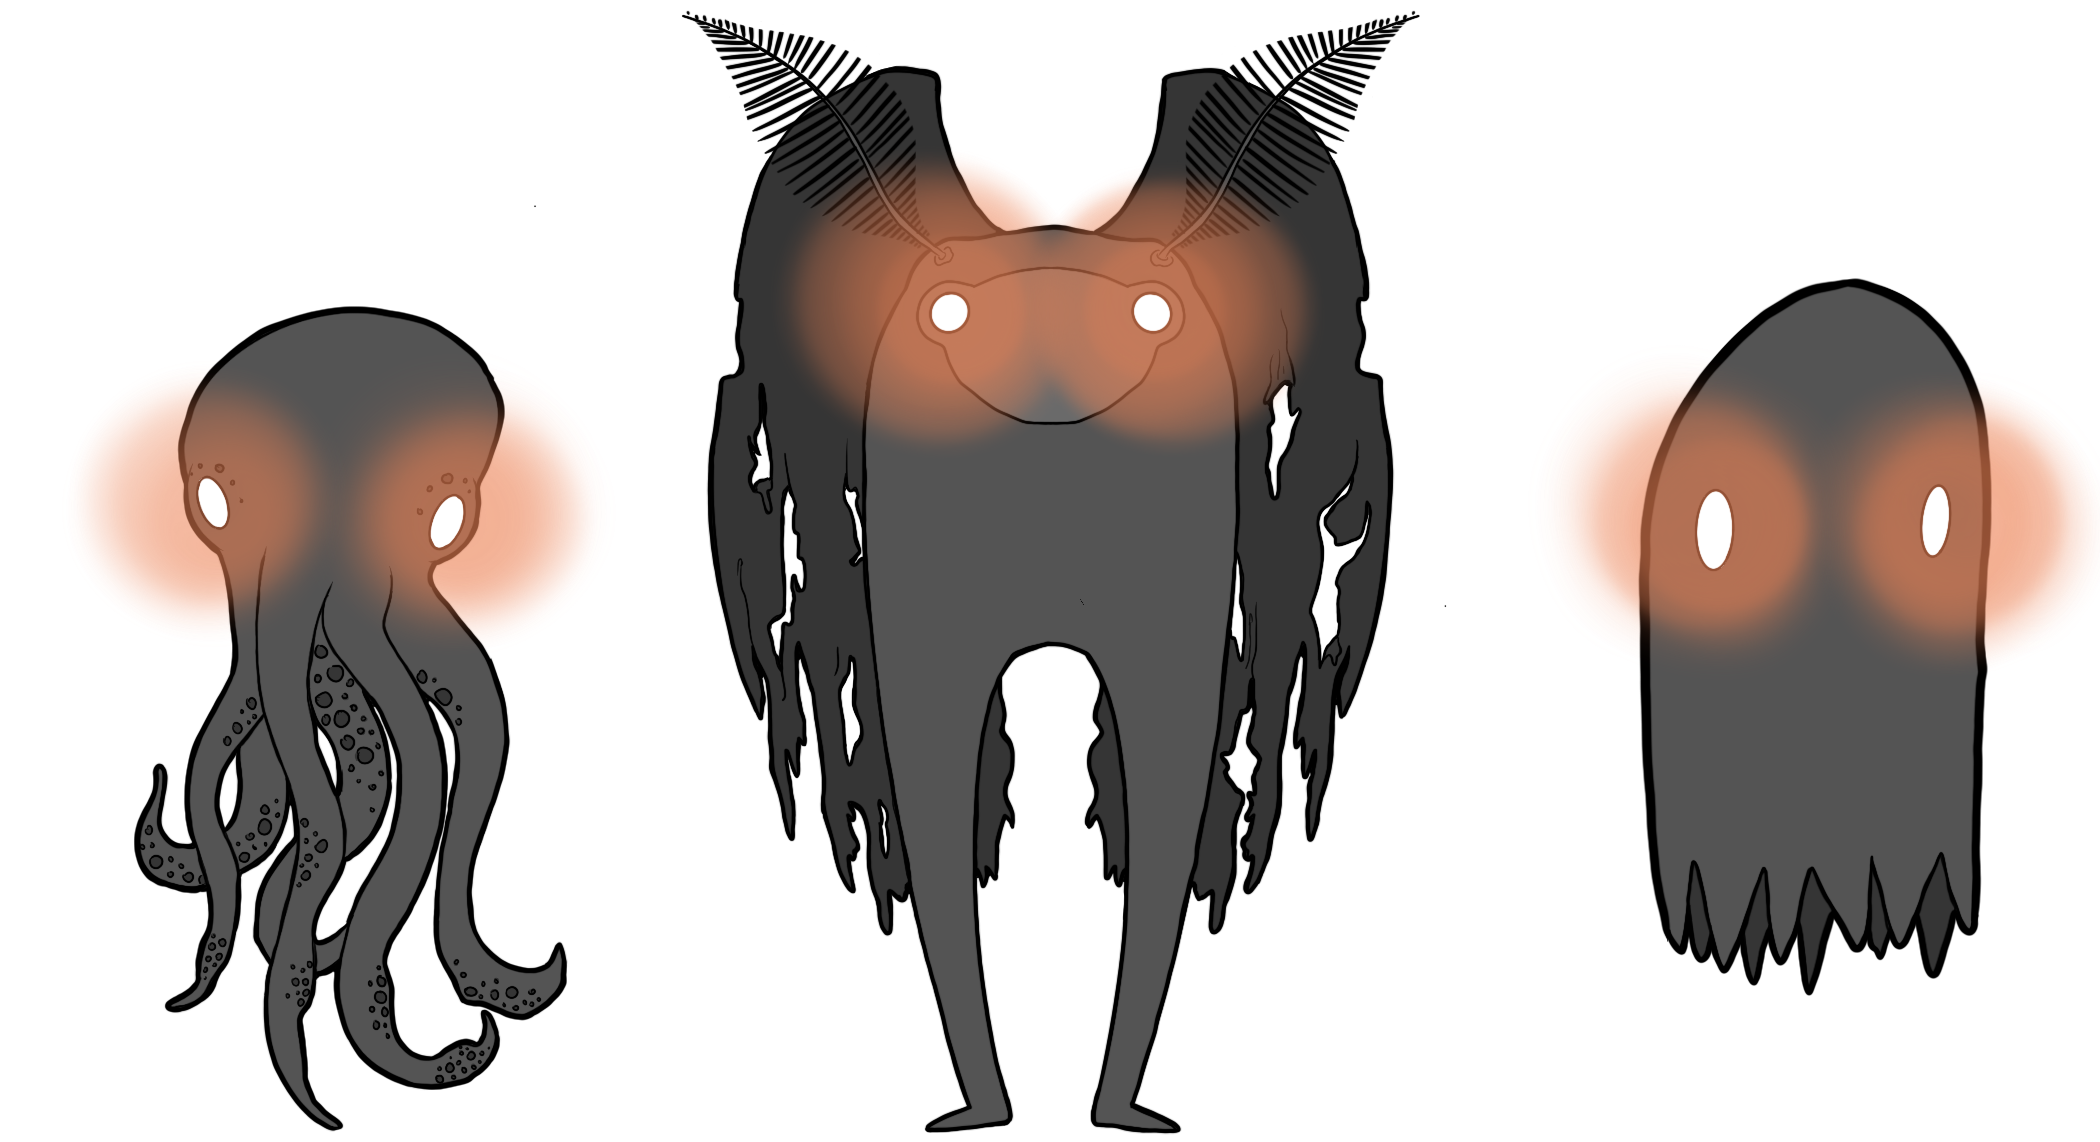
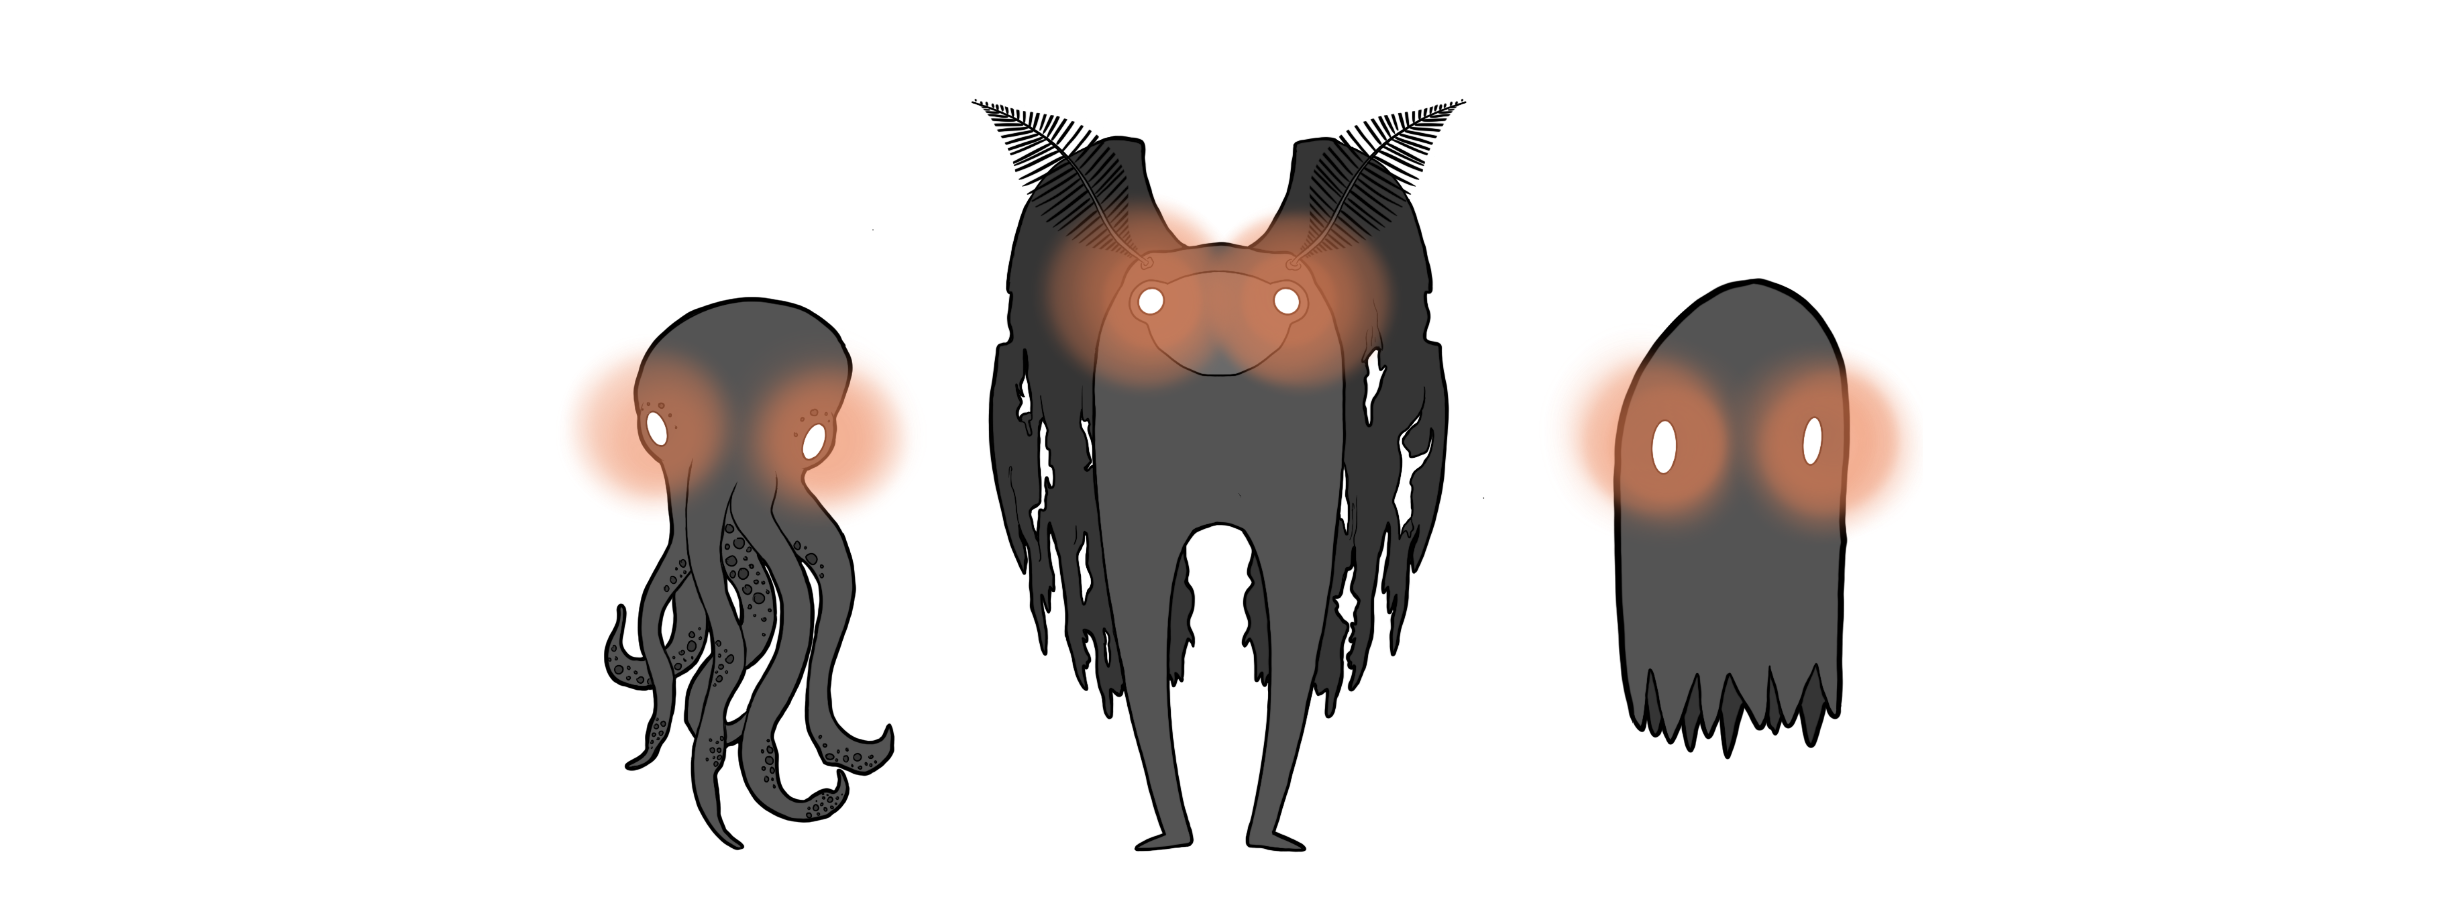
navigation bar function and position, intro/header effect, hamburger menu function

diff --git a/src/components/header/header.scss b/src/components/header/header.scss
@@ -1,7 +1,48 @@
 header.header   {
-    z-index:1;
+    position:relative;
+    // height:50vh;
+    top:20vh;
 }
 
 img.trees {
     width: 100vw;
 }
+
+div.hamburger {
+    position:fixed;
+    z-index:20;
+    top:10px;
+    right:10px;
+    width: 32px;
+    height: 25px;
+    display: flex;
+    flex-direction: column;
+    justify-content: space-between;
+    cursor: pointer;
+
+    span {
+    width: 100%;
+    height: 2px;
+    background-color: var(--tan);
+    border-radius: 2px;
+    transform-origin: left;
+    transition: all 0.5s ease;
+    }
+
+    &.active {
+    span {
+        &:first-child {
+        background-color: var(--red);
+        transform: rotate(45deg);
+        }
+        &:nth-child(2) {
+        display: none;
+        }
+        &:last-child {
+        background-color: var(--red);
+        transform: rotate(-45deg);
+        }
+    }
+    }
+}
+

diff --git a/src/components/header/Header.tsx b/src/components/header/Header.tsx
@@ -1,10 +1,19 @@
 import './header.scss';
 import Trees from '../../images/trees.png'
+import Navigation from './nav/Navigation';
 
-export default function Header() {
+export default function Header(props: any) {
+    const { navOpen, setNavOpen } = props;
+
     return (
         <header className='header'>
-            <img src={Trees} className='trees' alt='a dark blue treeline'/>
+        <img src={Trees} className='trees' alt='a dark blue treeline'/>
+            <div onClick={() => setNavOpen(!navOpen)} className={`hamburger ${navOpen ? 'active' : ''}`}>
+                <span className='line1'></span>
+                <span className='line2'></span>
+                <span className='line3'></span>
+            </div>
+        <Navigation navOpen={navOpen}/>
         </header>
     )
 }

diff --git a/src/App.tsx b/src/App.tsx
@@ -1,16 +1,21 @@
-import React from 'react';
+import React, {Fragment, useState} from 'react';
 import Intro from './components/intro/Intro';
 import Header from './components/header/Header';
 import About from './components/about/About';
 import './App.scss';
 
 function App() {
+  const [navOpen, setNavOpen] = useState<Boolean>(false);
   return (
-    <body>
+    // react fragment allows us to group our sections under one parent (as per React) w/o creating a new div
+    // (good practice to limit extraneous divs)
+    <Fragment>
       <Intro />
-      <Header />
-      <About />
-    </body>
+      <Header navOpen={navOpen} setNavOpen={setNavOpen} />
+      <main>
+        <About />
+      </main>
+    </Fragment>
   );
 }
 

diff --git a/src/components/intro/Intro.tsx b/src/components/intro/Intro.tsx
@@ -1,10 +1,11 @@
 import './intro.scss';
-import Creatrues from '../../images/creature.png'
+import Creatures from '../../images/creature.png'
 
 export default function Intro() {
     return  (
-        <div className='intro'>
-            <img src={Creatrues} className='creatures' alt='a drawing of an alien, mothman, and a ghost'/>
+        <div className='intro-block'>
+            <img src={Creatures} className='creatures' alt='an alien, mothman, and a ghost'/>
+            <h1 className='cryptid'>CRYPT-ID</h1>
         </div>
     )
 }

diff --git a/src/components/header/nav/navigation.scss b/src/components/header/nav/navigation.scss
@@ -1,0 +1,32 @@
+nav.Nav {
+    z-index:19;
+    transition: all 1s ease;
+    position: fixed;
+    height: 100vh;
+    width: 150px;
+    background-color: var(--orange);
+    top:0px;
+    right:0px;
+}
+
+nav.Nav.hidden  {
+    right:-150px;
+}
+
+ul.nav-list  {
+    display: flex;
+    flex-direction: column;
+    justify-content: space-evenly;
+    margin:0px;
+    padding:0px;
+}
+
+li {
+    list-style-type: none;
+    font-family: var(--body-font);
+}
+
+li a {
+    text-decoration: none;
+    color: var(--medium-grey);
+}

diff --git a/src/components/intro/intro.scss b/src/components/intro/intro.scss
@@ -1,12 +1,22 @@
-div.intro   {
+div.intro-block   {
     height: 50vh;
+    position:fixed;
+    display:flex;
+    flex-direction: column;
+    align-items: center;
+    justify-content: center;
+    z-index:-10;
+    top:40px;
+}
+
+h1.cryptid    {
+    font-family: var(--special-font);
+    font-size: 40px;
 }
 
 img.creatures {
-    position:fixed;
-    width: 800px;
+    width: 100%;
     top:8vh;
-    z-index:0;
-    left:15vw;
-    right:15vw;
+    // left:15vw;
+    // right:15vw;
 }

diff --git a/src/components/header/nav/Navigation.tsx b/src/components/header/nav/Navigation.tsx
@@ -1,0 +1,16 @@
+import './navigation.scss';
+
+export default function Navigation(props:any)   {
+    const { navOpen } = props;
+
+    return  (
+        <nav className={`Nav ${navOpen ? '' : 'hidden'}`}>
+            <ul className='nav-list'>
+                {/* TODO: list functionality */}
+                <li><a href='#'>Log In</a></li>
+                <li><a href='#'>Blog</a></li>
+                <li><a href='#'>Unknown</a></li>
+            </ul>
+        </nav>
+    )
+}

diff --git a/src/App.scss b/src/App.scss
@@ -3,8 +3,14 @@ body    {
     display: flex;
     flex-direction: column;
     align-items: center;
-    justify-content: space-between;
+}
 
+main    {
+    background-color: var(--blue);
+    position: relative;
+    top:16vh;
+    z-index:1;
+    
     >   *{
         height:100vh;
     }

diff --git a/src/components/about/about.scss b/src/components/about/about.scss
@@ -1,5 +1,5 @@
 div.about   {
-    background-color: var(--blue);
+    // background-color: var(--blue);
     z-index: 10;
     width: 100vw;
     display:flex;
